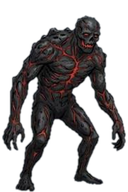
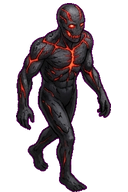
Finish the iso redraw: all 97 figures at the floor's own camera
Every figure and object standing on the isometric floor is now drawn from
26.6 degrees above and turned 45 degrees onto a screen diagonal: the
hero's six frames, three families, four wanderers, seven pieces of
furniture, and all thirty-five creatures in both facings.

That turn is what makes the mirroring real. A bilaterally symmetric
painting mirrors to itself, so IsoFooting's facing model had been
decorative since it was written; `_s` walks down-left, `_n` walks up-right,
and the other two of the four directions are those files flipped.

Two things the next sheet tier will meet again. The generator's grid is
advisory - one request for "EXACTLY 2 columns by 3 rows" came back as 4x2,
4x3, 2x3 and a sheet of three uneven bands - so every sheet is read before
installing, `--cells` picks the wanted orientations out of what arrived,
and a band of the wrong height is cropped and installed alone. Dividing
one uniformly put an ogre's head in the swarm's cell, which
`cutout_lib.stowaways` caught. And a subject can be drawn past its own
cell: the warden's maces cross both edges of every crop, so no crop has
the flat border the matte requires, and it refused at 78%, 36%, 10% and
0%. tools/padregion.gd restores the margin in the key colour the sheet was
drawn on.

REDO_DIRS and REDO_CLEARED both go out, as the D122 note says they should
when the last file lands. 384 of 384 art files present, 0 outstanding.
42 tests pass.
[…]

diff --git a/ART_PROMPTS.md b/ART_PROMPTS.md
@@ -8,9 +8,9 @@ same reason: a hand-kept prompt sheet goes stale, and a prompt naming an enemy
 the game no longer has produces a painting with nowhere to go. The *why* is
 [ART.md](ART.md); that file is the shopping list; this one is the wording.
 
-**23 files can be generated.** The rest of the list cannot, and the sections below
-say which and why — the expensive mistake is not a bad painting, it is a good
-painting of a thing that had to be computed.
+**Nothing is outstanding.** Every file the game looks for is present, so there is
+nothing here to ask a generator for. The sections below are kept for the next
+thing added to a catalogue, which will appear in them the moment it is.
 
 ## The three rules that do the work
 
@@ -27,7 +27,7 @@ painting of a thing that had to be computed.
    stronger constraint on palette and line weight than any adjective. `main_menu.jpg`
    is what a request without it looks like.
 3. **Paste the style block below unchanged, then one subject line.** Do not
-   improve it between images. Its job is to be identical 23 times.
+   improve it between images. Its job is to be identical 0 times.
 
 ```
 Painted dark-fantasy storybook illustration, in the style of the attached reference image.
@@ -127,52 +127,9 @@ Nothing to generate here — all 20 present.
 
 ## Tier 8c — the creature on the tile
 
-A small figure seen from the ISOMETRIC CAMERA THIS GAME ACTUALLY USES, which is not a head-on view. The floor tile is 116x58 - exactly 2:1 - so the camera looks DOWN at the floor from about 27 degrees above it. Draw the figure from that height: you see the top of its head and its shoulders, its feet are further down the frame than a head-on view would put them, and the ground it stands on would read as a flattened diamond rather than a line. It is also TURNED: the four walking directions all run diagonally across the screen, so the figure faces a DIAGONAL, three-quarter, never straight out of the frame. IT FACES DOWN AND TO THE LEFT - toward the camera and to the viewer's left, at 45 degrees, so the viewer sees the front of it and its left-hand side at once. Standing on nothing, on a flat even field for the matte: the feet must be the lowest painted pixel and there must be no ground, no shadow, no plinth and no scenery under it. Mid-value and lit from above and in front, clearly lighter than the floor across most of the body, with real interior: cloth, metal, skin, a face.
-
-**Generate these as ONE image, not 22.** A 5x5 grid, cells in the order of the table below, left to right then top to bottom, flat even background, nothing touching a cell edge. This is a RE-ROLL of 22 of this tier's 70 files: the rest are already installed and are the reference, so match the set on disk for weight, fill and how much of its cell the shape uses. Install: `godot --headless --script tools/install_sheet.gd -- iso_foes <sheet.png> --only=mycelial_lord_s,mycelial_lord_n,ossuary_wretch_s,ossuary_wretch_n,pale_acolyte_s,pale_acolyte_n,plague_rat_s,plague_rat_n,rat_swarm_s,rat_swarm_n,rot_priest_s,rot_priest_n,slag_wretch_s,slag_wretch_n,spore_thing_s,spore_thing_n,the_gardener_s,the_gardener_n,tomb_guard_s,tomb_guard_n,warden_s,warden_n`
-
-**22 to RE-ROLL** — these files exist and are wrong. Same style block and same subject line as a first draft; what is on disk is not a constraint on what comes back.
-
-*All 22 have the same defect: HEAD-ON, and the floor is isometric — redraw at the camera's own angle (see the brief)..*
-
-| save as | size | subject |
-|---|---|---|
-| `iso/foe/mycelial_lord_s.png` | 128x192 | **The Mycelial Lord**, walking down-left toward the camera. The same creature as `enemies/mycelial_lord.png`, turned onto the diagonal. |
-| `iso/foe/mycelial_lord_n.png` | 128x192 | **%s**, walking up-right away from the camera, seen from behind and above. |
-| `iso/foe/ossuary_wretch_s.png` | 128x192 | **Ossuary Wretch**, walking down-left toward the camera. The same creature as `enemies/ossuary_wretch.png`, turned onto the diagonal. |
-| `iso/foe/ossuary_wretch_n.png` | 128x192 | **%s**, walking up-right away from the camera, seen from behind and above. |
-| `iso/foe/pale_acolyte_s.png` | 128x192 | **Pale Acolyte**, walking down-left toward the camera. The same creature as `enemies/pale_acolyte.png`, turned onto the diagonal. |
-| `iso/foe/pale_acolyte_n.png` | 128x192 | **%s**, walking up-right away from the camera, seen from behind and above. |
-| `iso/foe/plague_rat_s.png` | 128x192 | **Plague Rat**, walking down-left toward the camera. The same creature as `enemies/plague_rat.png`, turned onto the diagonal. |
-| `iso/foe/plague_rat_n.png` | 128x192 | **%s**, walking up-right away from the camera, seen from behind and above. |
-| `iso/foe/rat_swarm_s.png` | 128x192 | **Rat**, walking down-left toward the camera. The same creature as `enemies/rat_swarm.png`, turned onto the diagonal. |
-| `iso/foe/rat_swarm_n.png` | 128x192 | **%s**, walking up-right away from the camera, seen from behind and above. |
-| `iso/foe/rot_priest_s.png` | 128x192 | **Rot Priest**, walking down-left toward the camera. The same creature as `enemies/rot_priest.png`, turned onto the diagonal. |
-| `iso/foe/rot_priest_n.png` | 128x192 | **%s**, walking up-right away from the camera, seen from behind and above. |
-| `iso/foe/slag_wretch_s.png` | 128x192 | **Slag Wretch**, walking down-left toward the camera. The same creature as `enemies/slag_wretch.png`, turned onto the diagonal. |
-| `iso/foe/slag_wretch_n.png` | 128x192 | **%s**, walking up-right away from the camera, seen from behind and above. |
-| `iso/foe/spore_thing_s.png` | 128x192 | **Spore Thing**, walking down-left toward the camera. The same creature as `enemies/spore_thing.png`, turned onto the diagonal. |
-| `iso/foe/spore_thing_n.png` | 128x192 | **%s**, walking up-right away from the camera, seen from behind and above. |
-| `iso/foe/the_gardener_s.png` | 128x192 | **The Gardener**, walking down-left toward the camera. The same creature as `enemies/the_gardener.png`, turned onto the diagonal. |
-| `iso/foe/the_gardener_n.png` | 128x192 | **%s**, walking up-right away from the camera, seen from behind and above. |
-| `iso/foe/tomb_guard_s.png` | 128x192 | **Tomb Guard**, walking down-left toward the camera. The same creature as `enemies/tomb_guard.png`, turned onto the diagonal. |
-| `iso/foe/tomb_guard_n.png` | 128x192 | **%s**, walking up-right away from the camera, seen from behind and above. |
-| `iso/foe/warden_s.png` | 128x192 | **The Forge-Warden**, walking down-left toward the camera. The same creature as `enemies/warden.png`, turned onto the diagonal. |
-| `iso/foe/warden_n.png` | 128x192 | **%s**, walking up-right away from the camera, seen from behind and above. |
+Nothing to generate here — all 70 present.
 
 ## Tier 8b — isometric furniture
 
-A small object or prop seen in three-quarter ISOMETRIC view from slightly above, standing on nothing, on a flat even field for the matte, anchored by its base. Same lighting and same value rule as Tier 8a: clearly lighter than the floor, lit from the upper left, real material. No ground, no shadow, no scenery.
-
-**Generate these as ONE image, not 1.** A 1x1 grid, cells in the order of the table below, left to right then top to bottom, flat even background, nothing touching a cell edge. This is a RE-ROLL of 1 of this tier's 7 files: the rest are already installed and are the reference, so match the set on disk for weight, fill and how much of its cell the shape uses. Install: `godot --headless --script tools/install_sheet.gd -- iso_furniture <sheet.png> --only=treasure`
-
-**1 to RE-ROLL** — these files exist and are wrong. Same style block and same subject line as a first draft; what is on disk is not a constraint on what comes back.
-
-| save as | size | what is wrong with the one we have |
-|---|---|---|
-| `iso/treasure.png` | 128x192 | HEAD-ON, and the floor is isometric — redraw at the camera's own angle (see the brief). |
-
-| save as | size | subject |
-|---|---|---|
-| `iso/treasure.png` | 128x192 | A chest, shut. |
+Nothing to generate here — all 7 present.
 

diff --git a/DESIGN.md b/DESIGN.md
@@ -12635,6 +12635,27 @@ that needs it.
 states the angle as a measurement rather than an adjective — 27 degrees, both diagonals named,
 and *why* the diagonal is not negotiable — because "slightly above" is what produced this.
 
+**Done, in one session, 97 for 97.** Sixteen sheets: the hero, the three families, the four
+wanderers, the seven pieces of furniture and all thirty-five creatures in both facings. Two
+things had to be learned the hard way and are worth writing down, because the next sheet tier
+will meet both.
+
+*The generator's grid is advisory.* One request for "EXACTLY 2 columns by 3 rows, all rows the
+same height" returned 4x2, 4x3, 2x3 and a 4-column sheet with three uneven bands, sometimes
+with a creature repeated across two cells and sometimes with four orientations where two were
+asked for. So every sheet is READ before it is installed: `--cells` picks the two wanted out
+of what arrived, and a band whose height does not match its neighbours is cropped out and
+installed on its own. Dividing such a sheet uniformly is what put an ogre's head inside the
+swarm's cell — caught by `cutout_lib.stowaways`, which is exactly the failure that guard was
+written for.
+
+*A subject can be drawn past its own cell.* The warden's maces cross both edges of every crop
+of it, so no crop has the flat border `BORDER_AGREE` requires, and it refused four attempts at
+78%, 36%, 10% and 0%. The refusal is right and the art is fine: the field is simply not
+visible at the edge any more. `tools/padregion.gd` puts it back, surrounding the crop with the
+same key colour the sheet was drawn on — which is what the matte would have seen had the cell
+been drawn to size.
+
 **What is deliberately given up.** The fronts stop being cut from the plates, so the floor
 figure is no longer the *same picture* as the arena figure — the guarantee that made D198 work.
 The match is kept by design instead: each is drawn against its own `enemies/<id>.png`. That is
